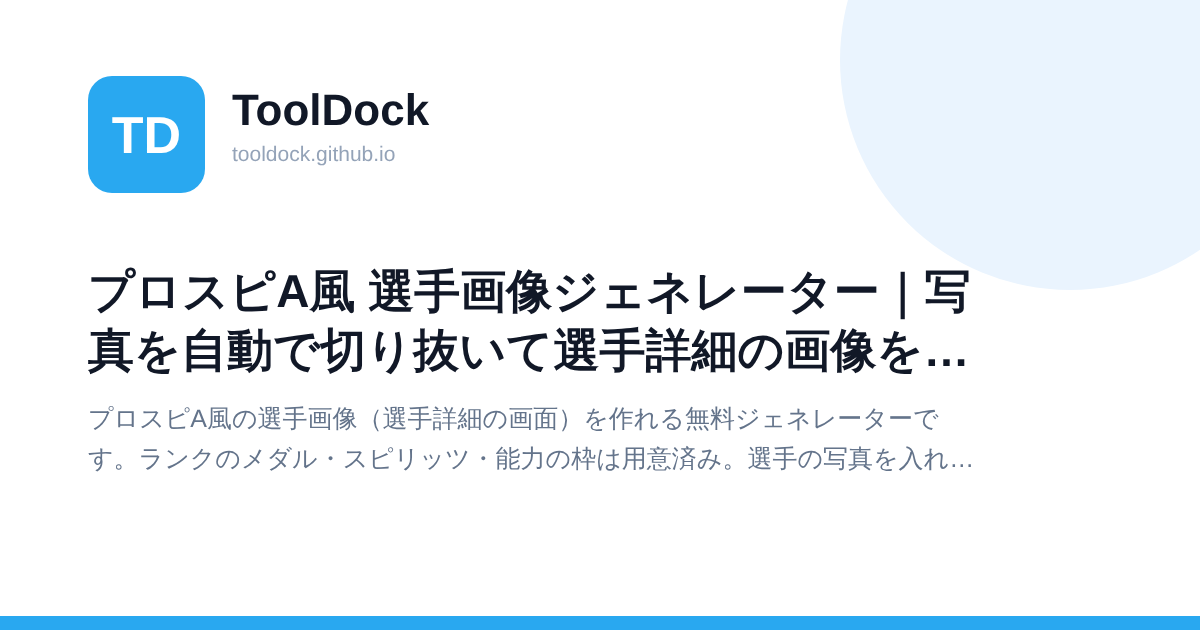
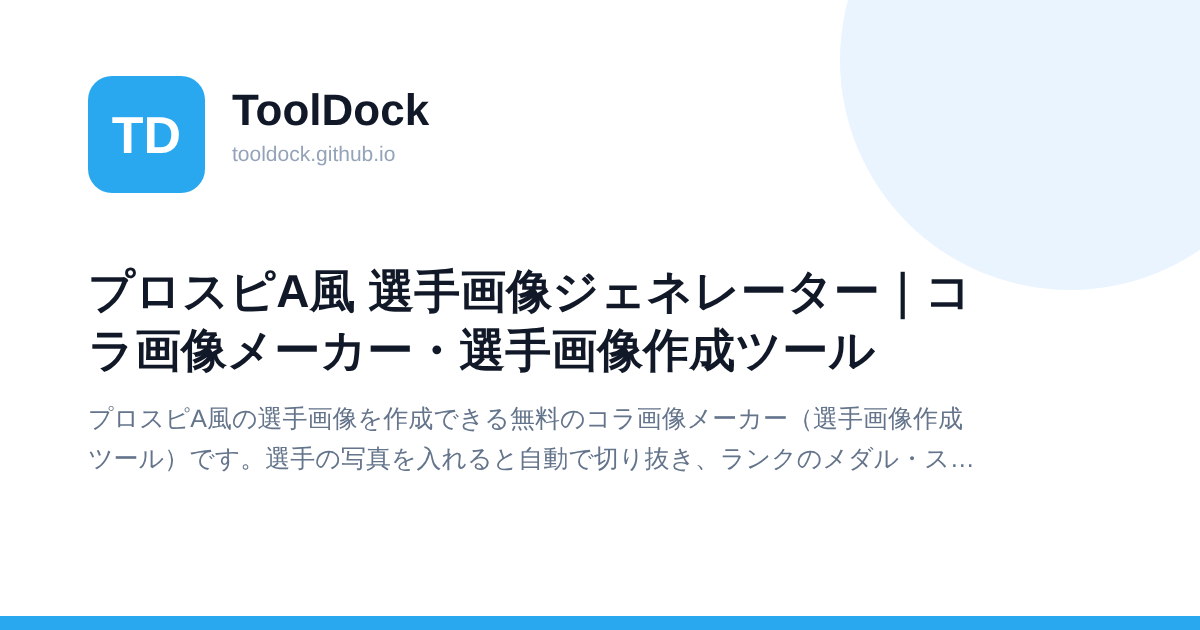
プロスピA風：タイトルと説明文を能力画像ジェネレーターに合わせる
Claude-Session: https://claude.ai/code/session_01SKh1jhAp32CEmbZCaaEmgk

Changed region(s): [[0.0617, 0.6333, 0.8017, 0.754], [0.0617, 0.5127, 0.8017, 0.6032], [0.7708, 0.4222, 0.8325, 0.5127]]

diff --git a/prospi/index.html b/prospi/index.html
@@ -3,14 +3,14 @@
 <head>
 <meta charset="UTF-8">
 <meta name="viewport" content="width=device-width, initial-scale=1.0">
-<title>プロスピA風 選手画像ジェネレーター｜写真を自動で切り抜いて選手詳細の画像を作成 - ToolDock</title>
-<meta name="description" content="プロスピA風の選手画像（選手詳細の画面）を作れる無料ジェネレーターです。ランクのメダル・スピリッツ・能力の枠は用意済み。選手の写真を入れるとサイトの中で自動で切り抜き、ドラッグで自由に配置できます。背景やロゴも画像で重ねられ、スマホと同じ縦長の画像をPNGで保存できます。">
+<title>プロスピA風 選手画像ジェネレーター｜コラ画像メーカー・選手画像作成ツール - ToolDock</title>
+<meta name="description" content="プロスピA風の選手画像を作成できる無料のコラ画像メーカー（選手画像作成ツール）です。選手の写真を入れると自動で切り抜き、ランクのメダル・スピリッツ・能力の枠つきの選手詳細風の画像にできます。背景やロゴも重ねられ、PNGで保存してインスタ・YouTube・SNSに使えます。">
 <link rel="canonical" href="https://tooldock.github.io/prospi/">
 <!-- OGP: scripts/static_ogp.py が書く（SNSはJavaScriptを動かさないため）。手で書き換えない -->
 <meta property="og:type" content="website">
 <meta property="og:site_name" content="ToolDock">
-<meta property="og:title" content="プロスピA風 選手画像ジェネレーター｜写真を自動で切り抜いて選手詳細の画像を作成 | ToolDock">
-<meta property="og:description" content="プロスピA風の選手画像（選手詳細の画面）を作れる無料ジェネレーターです。ランクのメダル・スピリッツ・能力の枠は用意済み。選手の写真を入れるとサイトの中で自動で切り抜き、ドラッグで自由に配置できます。背景やロゴも画像で重ねられ、スマホと同じ縦長の画像をPNGで保存できます。">
+<meta property="og:title" content="プロスピA風 選手画像ジェネレーター｜コラ画像メーカー・選手画像作成ツール | ToolDock">
+<meta property="og:description" content="プロスピA風の選手画像を作成できる無料のコラ画像メーカー（選手画像作成ツール）です。選手の写真を入れると自動で切り抜き、ランクのメダル・スピリッツ・能力の枠つきの選手詳細風の画像にできます。背景やロゴも重ねられ、PNGで保存してインスタ・YouTube・SNSに使えます。">
 <meta property="og:url" content="https://tooldock.github.io/prospi/">
 <meta property="og:image" content="https://tooldock.github.io/ogp/prospi.png">
 <meta property="og:image:width" content="1200">
@@ -33,7 +33,7 @@
 <link href="https://fonts.googleapis.com/css2?family=M+PLUS+Rounded+1c:wght@500;700;800;900&display=swap" rel="stylesheet">
 <!-- ランクのメダルの文字だけに使う（使う字だけを読み込む） -->
 <link href="https://fonts.googleapis.com/css2?family=M+PLUS+1p:wght@900&family=Zen+Old+Mincho:wght@900&text=SABCD%E6%A5%B5&display=swap" rel="stylesheet">
-<meta name="keywords" content="プロスピA,プロスピ,選手画像,コラ画像,ジェネレーター,選手カード,切り抜き,背景透過,スピリッツ,TS,OB,画像作成,無料">
+<meta name="keywords" content="プロスピA,プロスピ,プロスピ風,選手画像,コラ画像,コラ画像メーカー,選手画像作成,画像作成ツール,ジェネレーター,切り抜き,スピリッツ,無料">
 
 <style>
 *{ box-sizing:border-box; }

diff --git a/index.html b/index.html
@@ -358,7 +358,7 @@ ToolDockは、ブラウザだけで使える無料のWebツールを集めたサ
     <li><a class="tool-card c-game" href="/crystal/"><span class="tc-title">パワプロ2026-2027 マイライフ イベントクリスタル（小）（大）入手方法一覧</span><span class="tc-desc">特殊能力ファイルに使うイベントクリスタルの入手方法と、怪しい露店の交換レート一覧。</span></a></li>
     <li><a class="tool-card c-game" href="/kintoku/"><span class="tc-title">パワプロ2026-2027 マイライフ 能力研究所の金特ミッション一覧</span><span class="tc-desc">マイライフの能力研究所で受けられる金特ミッションの内容と取得条件の一覧。2024-2025 とも共通です。</span></a></li>
     <li><a class="tool-card c-game" href="/satei/"><span class="tc-title">パワプロ2026-2027 ⭐(星)計算ツール</span><span class="tc-desc">能力値と所持する特殊能力を入力すると、査定である☆(星)を計算します。</span></a></li>
-    <li><a class="tool-card c-game" href="/prospi/"><span class="tc-title">プロスピA風 選手画像ジェネレーター</span><span class="tc-desc">写真を入れると選手を自動で切り抜き。ランクのメダル・スピリッツ・能力の枠つきで、プロスピA風の選手画像を作れます。</span></a></li>
+    <li><a class="tool-card c-game" href="/prospi/"><span class="tc-title">プロスピA風 選手画像ジェネレーター</span><span class="tc-desc">プロスピA風の選手画像を作れるコラ画像メーカー。写真を入れると選手を自動で切り抜き、メダル・スピリッツ・能力の枠つきの画像を作成できます。</span></a></li>
     <li><a class="tool-card c-game" href="/nouryoku/"><span class="tc-title">パワプロ風 能力画像ジェネレーター（野手）</span><span class="tc-desc">パワプロ風の能力画像を作れる能力メーカー。野手の能力値と特殊能力を入れるだけで、選手能力カード風の画像を作成できます。</span></a></li>
     <li><a class="tool-card c-game" href="/nouryoku-pitcher/"><span class="tc-title">パワプロ風 能力画像ジェネレーター（投手）</span><span class="tc-desc">パワプロ風の能力画像を作れる能力メーカー。投手の能力値・変化球と特殊能力を入れるだけで、選手能力カード風の画像を作成できます。</span></a></li>
     <li><a class="tool-card c-game" href="/stamen/"><span class="tc-title">パワプロ風 スタメン画像ジェネレーター</span><span class="tc-desc">名前・守備位置・調子を入れるだけで、パワプロ風のスターティングオーダーを画像・GIFアニメ・動画にできます。</span></a></li>

diff --git a/satei/index.html b/satei/index.html
@@ -772,7 +772,7 @@ compute();
 <a href="/crystal-banno/" class="related-tool-card"><h3>パワプロ2026-2027 マイライフ 万能クリスタル（小）（大）入手方法一覧</h3><p>万能クリスタル（小）9通りと（大）の入手方法を、チェックしながら管理できる一覧。</p></a>
 <a href="/crystal/" class="related-tool-card"><h3>パワプロ2026-2027 マイライフ イベントクリスタル（小）（大）入手方法一覧</h3><p>特殊能力ファイルに使うイベントクリスタルの入手方法と、怪しい露店の交換レート一覧。</p></a>
 <a href="/kintoku/" class="related-tool-card"><h3>パワプロ2026-2027 マイライフ 能力研究所の金特ミッション一覧</h3><p>マイライフの能力研究所で受けられる金特ミッションの内容と取得条件の一覧。2024-2025 とも共通です。</p></a>
-<a href="/prospi/" class="related-tool-card"><h3>プロスピA風 選手画像ジェネレーター</h3><p>写真を入れると選手を自動で切り抜き。ランクのメダル・スピリッツ・能力の枠つきで、プロスピA風の選手画像を作れます。</p></a>
+<a href="/prospi/" class="related-tool-card"><h3>プロスピA風 選手画像ジェネレーター</h3><p>プロスピA風の選手画像を作れるコラ画像メーカー。写真を入れると選手を自動で切り抜き、メダル・スピリッツ・能力の枠つきの画像を作成できます。</p></a>
 <a href="/nouryoku/" class="related-tool-card"><h3>パワプロ風 能力画像ジェネレーター（野手）</h3><p>パワプロ風の能力画像を作れる能力メーカー。野手の能力値と特殊能力を入れるだけで、選手能力カード風の画像を作成できます。</p></a>
 <a href="/nouryoku-pitcher/" class="related-tool-card"><h3>パワプロ風 能力画像ジェネレーター（投手）</h3><p>パワプロ風の能力画像を作れる能力メーカー。投手の能力値・変化球と特殊能力を入れるだけで、選手能力カード風の画像を作成できます。</p></a>
 <a href="/stamen/" class="related-tool-card"><h3>パワプロ風 スタメン画像ジェネレーター</h3><p>名前・守備位置・調子を入れるだけで、パワプロ風のスターティングオーダーを画像・GIFアニメ・動画にできます。</p></a>

diff --git a/category/index.html b/category/index.html
@@ -143,7 +143,7 @@
   <a class="tool-card c-work" data-cat="work" href="/counter/"><h2>文字数カウント</h2><p>原稿用紙換算・全角半角の内訳・X(Twitter)の文字数まで数えられる文字数カウンター。</p></a>
   <a class="tool-card c-work" data-cat="work" href="/ai-checker/"><h2>『AIっぽさ』チェッカー</h2><p>AIで書いた文章のAIっぽさを％で表示。AIっぽい言い回し・文末の繰り返し・読点の多さなどに印を付け、直し方を示します。</p></a>
   <a class="tool-card c-game" data-cat="game" href="/satei/"><h2>パワプロ2026-2027 ⭐(星)計算ツール</h2><p>能力値と所持する特殊能力を入力すると、査定である☆(星)を計算します。</p></a>
-  <a class="tool-card c-game" data-cat="game" href="/prospi/"><h2>プロスピA風 選手画像ジェネレーター</h2><p>写真を入れると選手を自動で切り抜き。ランクのメダル・スピリッツ・能力の枠つきで、プロスピA風の選手画像を作れます。</p></a>
+  <a class="tool-card c-game" data-cat="game" href="/prospi/"><h2>プロスピA風 選手画像ジェネレーター</h2><p>プロスピA風の選手画像を作れるコラ画像メーカー。写真を入れると選手を自動で切り抜き、メダル・スピリッツ・能力の枠つきの画像を作成できます。</p></a>
   <a class="tool-card c-game" data-cat="game" href="/nouryoku/"><h2>パワプロ風 能力画像ジェネレーター（野手）</h2><p>パワプロ風の能力画像を作れる能力メーカー。野手の能力値と特殊能力を入れるだけで、選手能力カード風の画像を作成できます。</p></a>
   <a class="tool-card c-game" data-cat="game" href="/nouryoku-pitcher/"><h2>パワプロ風 能力画像ジェネレーター（投手）</h2><p>パワプロ風の能力画像を作れる能力メーカー。投手の能力値・変化球と特殊能力を入れるだけで、選手能力カード風の画像を作成できます。</p></a>
   <a class="tool-card c-game" data-cat="game" href="/stamen/"><h2>パワプロ風 スタメン画像ジェネレーター</h2><p>名前・守備位置・調子を入れるだけで、パワプロ風のスターティングオーダーを画像・GIFアニメ・動画にできます。</p></a>

diff --git a/eikan-kintoku/index.html b/eikan-kintoku/index.html
@@ -1941,7 +1941,7 @@ render();
 <a href="/crystal/" class="related-tool-card"><h3>パワプロ2026-2027 マイライフ イベントクリスタル（小）（大）入手方法一覧</h3><p>特殊能力ファイルに使うイベントクリスタルの入手方法と、怪しい露店の交換レート一覧。</p></a>
 <a href="/kintoku/" class="related-tool-card"><h3>パワプロ2026-2027 マイライフ 能力研究所の金特ミッション一覧</h3><p>マイライフの能力研究所で受けられる金特ミッションの内容と取得条件の一覧。2024-2025 とも共通です。</p></a>
 <a href="/satei/" class="related-tool-card"><h3>パワプロ2026-2027 ⭐(星)計算ツール</h3><p>能力値と所持する特殊能力を入力すると、査定である☆(星)を計算します。</p></a>
-<a href="/prospi/" class="related-tool-card"><h3>プロスピA風 選手画像ジェネレーター</h3><p>写真を入れると選手を自動で切り抜き。ランクのメダル・スピリッツ・能力の枠つきで、プロスピA風の選手画像を作れます。</p></a>
+<a href="/prospi/" class="related-tool-card"><h3>プロスピA風 選手画像ジェネレーター</h3><p>プロスピA風の選手画像を作れるコラ画像メーカー。写真を入れると選手を自動で切り抜き、メダル・スピリッツ・能力の枠つきの画像を作成できます。</p></a>
 <a href="/nouryoku/" class="related-tool-card"><h3>パワプロ風 能力画像ジェネレーター（野手）</h3><p>パワプロ風の能力画像を作れる能力メーカー。野手の能力値と特殊能力を入れるだけで、選手能力カード風の画像を作成できます。</p></a>
 <a href="/nouryoku-pitcher/" class="related-tool-card"><h3>パワプロ風 能力画像ジェネレーター（投手）</h3><p>パワプロ風の能力画像を作れる能力メーカー。投手の能力値・変化球と特殊能力を入れるだけで、選手能力カード風の画像を作成できます。</p></a>
 <a href="/stamen/" class="related-tool-card"><h3>パワプロ風 スタメン画像ジェネレーター</h3><p>名前・守備位置・調子を入れるだけで、パワプロ風のスターティングオーダーを画像・GIFアニメ・動画にできます。</p></a>

diff --git a/crystal-banno/index.html b/crystal-banno/index.html
@@ -786,7 +786,7 @@ render();
 <a href="/crystal/" class="related-tool-card"><h3>パワプロ2026-2027 マイライフ イベントクリスタル（小）（大）入手方法一覧</h3><p>特殊能力ファイルに使うイベントクリスタルの入手方法と、怪しい露店の交換レート一覧。</p></a>
 <a href="/kintoku/" class="related-tool-card"><h3>パワプロ2026-2027 マイライフ 能力研究所の金特ミッション一覧</h3><p>マイライフの能力研究所で受けられる金特ミッションの内容と取得条件の一覧。2024-2025 とも共通です。</p></a>
 <a href="/satei/" class="related-tool-card"><h3>パワプロ2026-2027 ⭐(星)計算ツール</h3><p>能力値と所持する特殊能力を入力すると、査定である☆(星)を計算します。</p></a>
-<a href="/prospi/" class="related-tool-card"><h3>プロスピA風 選手画像ジェネレーター</h3><p>写真を入れると選手を自動で切り抜き。ランクのメダル・スピリッツ・能力の枠つきで、プロスピA風の選手画像を作れます。</p></a>
+<a href="/prospi/" class="related-tool-card"><h3>プロスピA風 選手画像ジェネレーター</h3><p>プロスピA風の選手画像を作れるコラ画像メーカー。写真を入れると選手を自動で切り抜き、メダル・スピリッツ・能力の枠つきの画像を作成できます。</p></a>
 <a href="/nouryoku/" class="related-tool-card"><h3>パワプロ風 能力画像ジェネレーター（野手）</h3><p>パワプロ風の能力画像を作れる能力メーカー。野手の能力値と特殊能力を入れるだけで、選手能力カード風の画像を作成できます。</p></a>
 <a href="/nouryoku-pitcher/" class="related-tool-card"><h3>パワプロ風 能力画像ジェネレーター（投手）</h3><p>パワプロ風の能力画像を作れる能力メーカー。投手の能力値・変化球と特殊能力を入れるだけで、選手能力カード風の画像を作成できます。</p></a>
 <a href="/stamen/" class="related-tool-card"><h3>パワプロ風 スタメン画像ジェネレーター</h3><p>名前・守備位置・調子を入れるだけで、パワプロ風のスターティングオーダーを画像・GIFアニメ・動画にできます。</p></a>

diff --git a/shippo/index.html b/shippo/index.html
@@ -787,7 +787,7 @@ render();
 <a href="/crystal/" class="related-tool-card"><h3>パワプロ2026-2027 マイライフ イベントクリスタル（小）（大）入手方法一覧</h3><p>特殊能力ファイルに使うイベントクリスタルの入手方法と、怪しい露店の交換レート一覧。</p></a>
 <a href="/kintoku/" class="related-tool-card"><h3>パワプロ2026-2027 マイライフ 能力研究所の金特ミッション一覧</h3><p>マイライフの能力研究所で受けられる金特ミッションの内容と取得条件の一覧。2024-2025 とも共通です。</p></a>
 <a href="/satei/" class="related-tool-card"><h3>パワプロ2026-2027 ⭐(星)計算ツール</h3><p>能力値と所持する特殊能力を入力すると、査定である☆(星)を計算します。</p></a>
-<a href="/prospi/" class="related-tool-card"><h3>プロスピA風 選手画像ジェネレーター</h3><p>写真を入れると選手を自動で切り抜き。ランクのメダル・スピリッツ・能力の枠つきで、プロスピA風の選手画像を作れます。</p></a>
+<a href="/prospi/" class="related-tool-card"><h3>プロスピA風 選手画像ジェネレーター</h3><p>プロスピA風の選手画像を作れるコラ画像メーカー。写真を入れると選手を自動で切り抜き、メダル・スピリッツ・能力の枠つきの画像を作成できます。</p></a>
 <a href="/nouryoku/" class="related-tool-card"><h3>パワプロ風 能力画像ジェネレーター（野手）</h3><p>パワプロ風の能力画像を作れる能力メーカー。野手の能力値と特殊能力を入れるだけで、選手能力カード風の画像を作成できます。</p></a>
 <a href="/nouryoku-pitcher/" class="related-tool-card"><h3>パワプロ風 能力画像ジェネレーター（投手）</h3><p>パワプロ風の能力画像を作れる能力メーカー。投手の能力値・変化球と特殊能力を入れるだけで、選手能力カード風の画像を作成できます。</p></a>
 <a href="/stamen/" class="related-tool-card"><h3>パワプロ風 スタメン画像ジェネレーター</h3><p>名前・守備位置・調子を入れるだけで、パワプロ風のスターティングオーダーを画像・GIFアニメ・動画にできます。</p></a>

diff --git a/crystal/index.html b/crystal/index.html
@@ -868,7 +868,7 @@ render();
 <a href="/crystal-banno/" class="related-tool-card"><h3>パワプロ2026-2027 マイライフ 万能クリスタル（小）（大）入手方法一覧</h3><p>万能クリスタル（小）9通りと（大）の入手方法を、チェックしながら管理できる一覧。</p></a>
 <a href="/kintoku/" class="related-tool-card"><h3>パワプロ2026-2027 マイライフ 能力研究所の金特ミッション一覧</h3><p>マイライフの能力研究所で受けられる金特ミッションの内容と取得条件の一覧。2024-2025 とも共通です。</p></a>
 <a href="/satei/" class="related-tool-card"><h3>パワプロ2026-2027 ⭐(星)計算ツール</h3><p>能力値と所持する特殊能力を入力すると、査定である☆(星)を計算します。</p></a>
-<a href="/prospi/" class="related-tool-card"><h3>プロスピA風 選手画像ジェネレーター</h3><p>写真を入れると選手を自動で切り抜き。ランクのメダル・スピリッツ・能力の枠つきで、プロスピA風の選手画像を作れます。</p></a>
+<a href="/prospi/" class="related-tool-card"><h3>プロスピA風 選手画像ジェネレーター</h3><p>プロスピA風の選手画像を作れるコラ画像メーカー。写真を入れると選手を自動で切り抜き、メダル・スピリッツ・能力の枠つきの画像を作成できます。</p></a>
 <a href="/nouryoku/" class="related-tool-card"><h3>パワプロ風 能力画像ジェネレーター（野手）</h3><p>パワプロ風の能力画像を作れる能力メーカー。野手の能力値と特殊能力を入れるだけで、選手能力カード風の画像を作成できます。</p></a>
 <a href="/nouryoku-pitcher/" class="related-tool-card"><h3>パワプロ風 能力画像ジェネレーター（投手）</h3><p>パワプロ風の能力画像を作れる能力メーカー。投手の能力値・変化球と特殊能力を入れるだけで、選手能力カード風の画像を作成できます。</p></a>
 <a href="/stamen/" class="related-tool-card"><h3>パワプロ風 スタメン画像ジェネレーター</h3><p>名前・守備位置・調子を入れるだけで、パワプロ風のスターティングオーダーを画像・GIFアニメ・動画にできます。</p></a>
